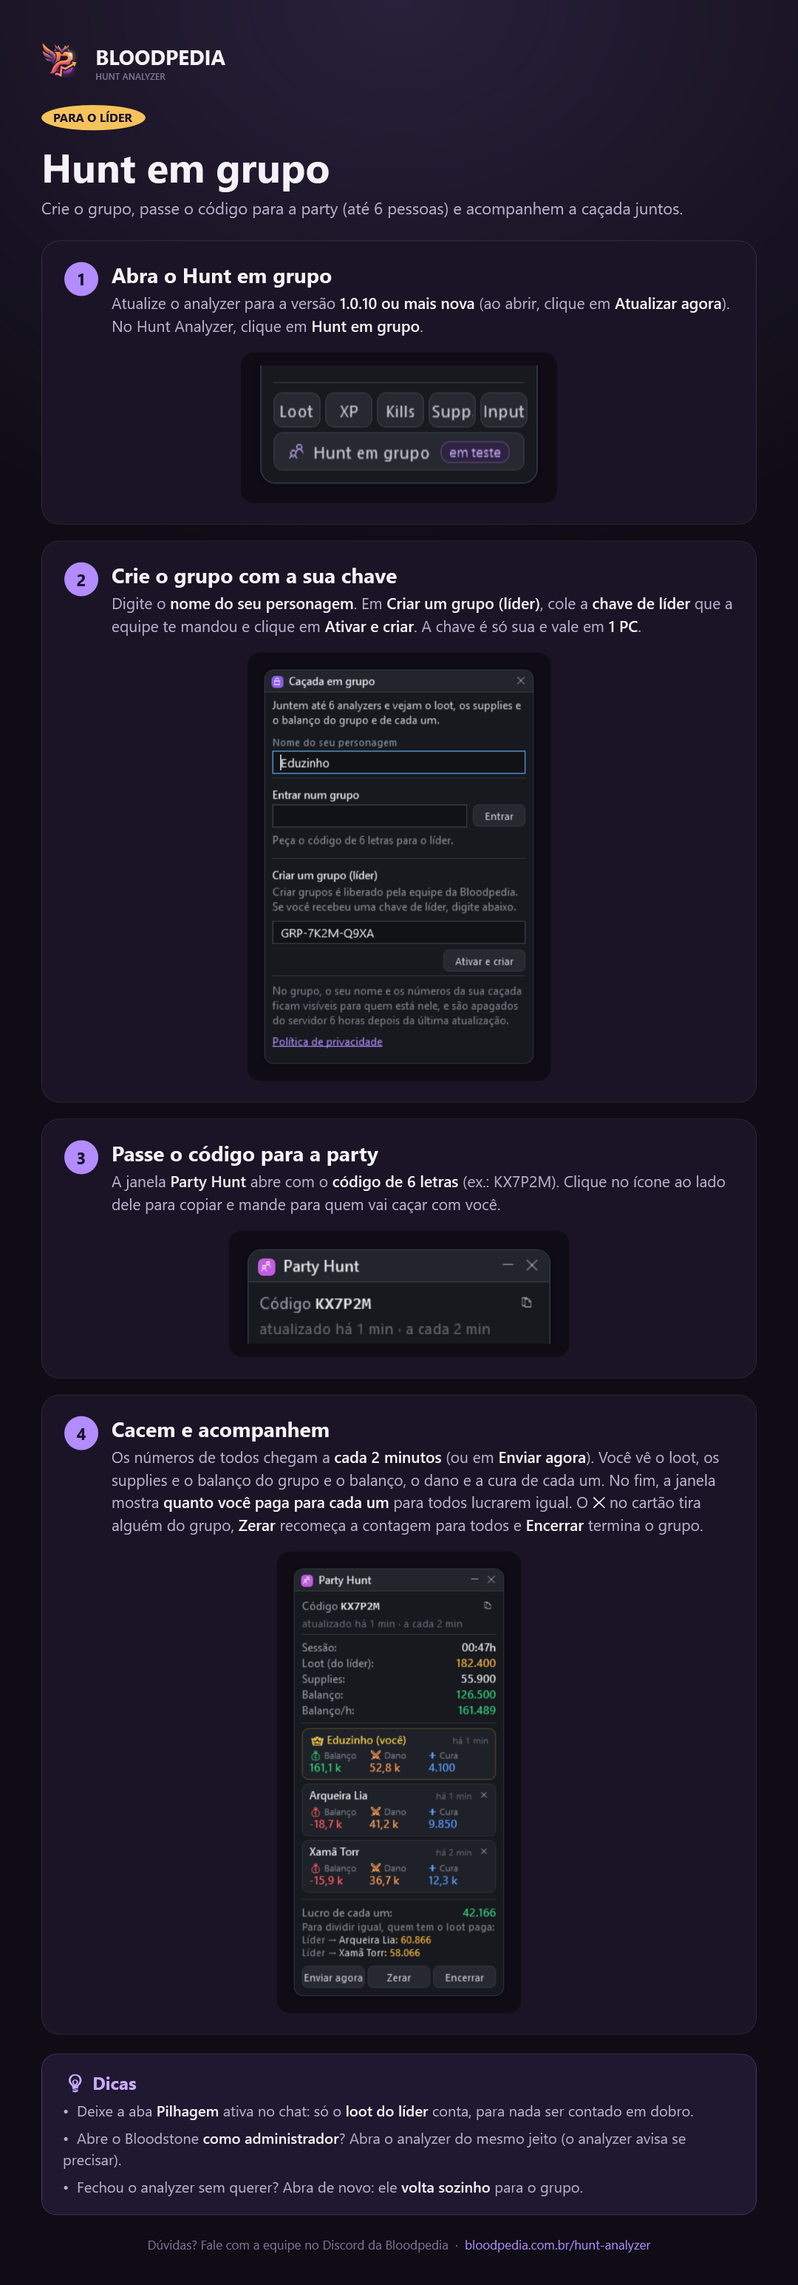
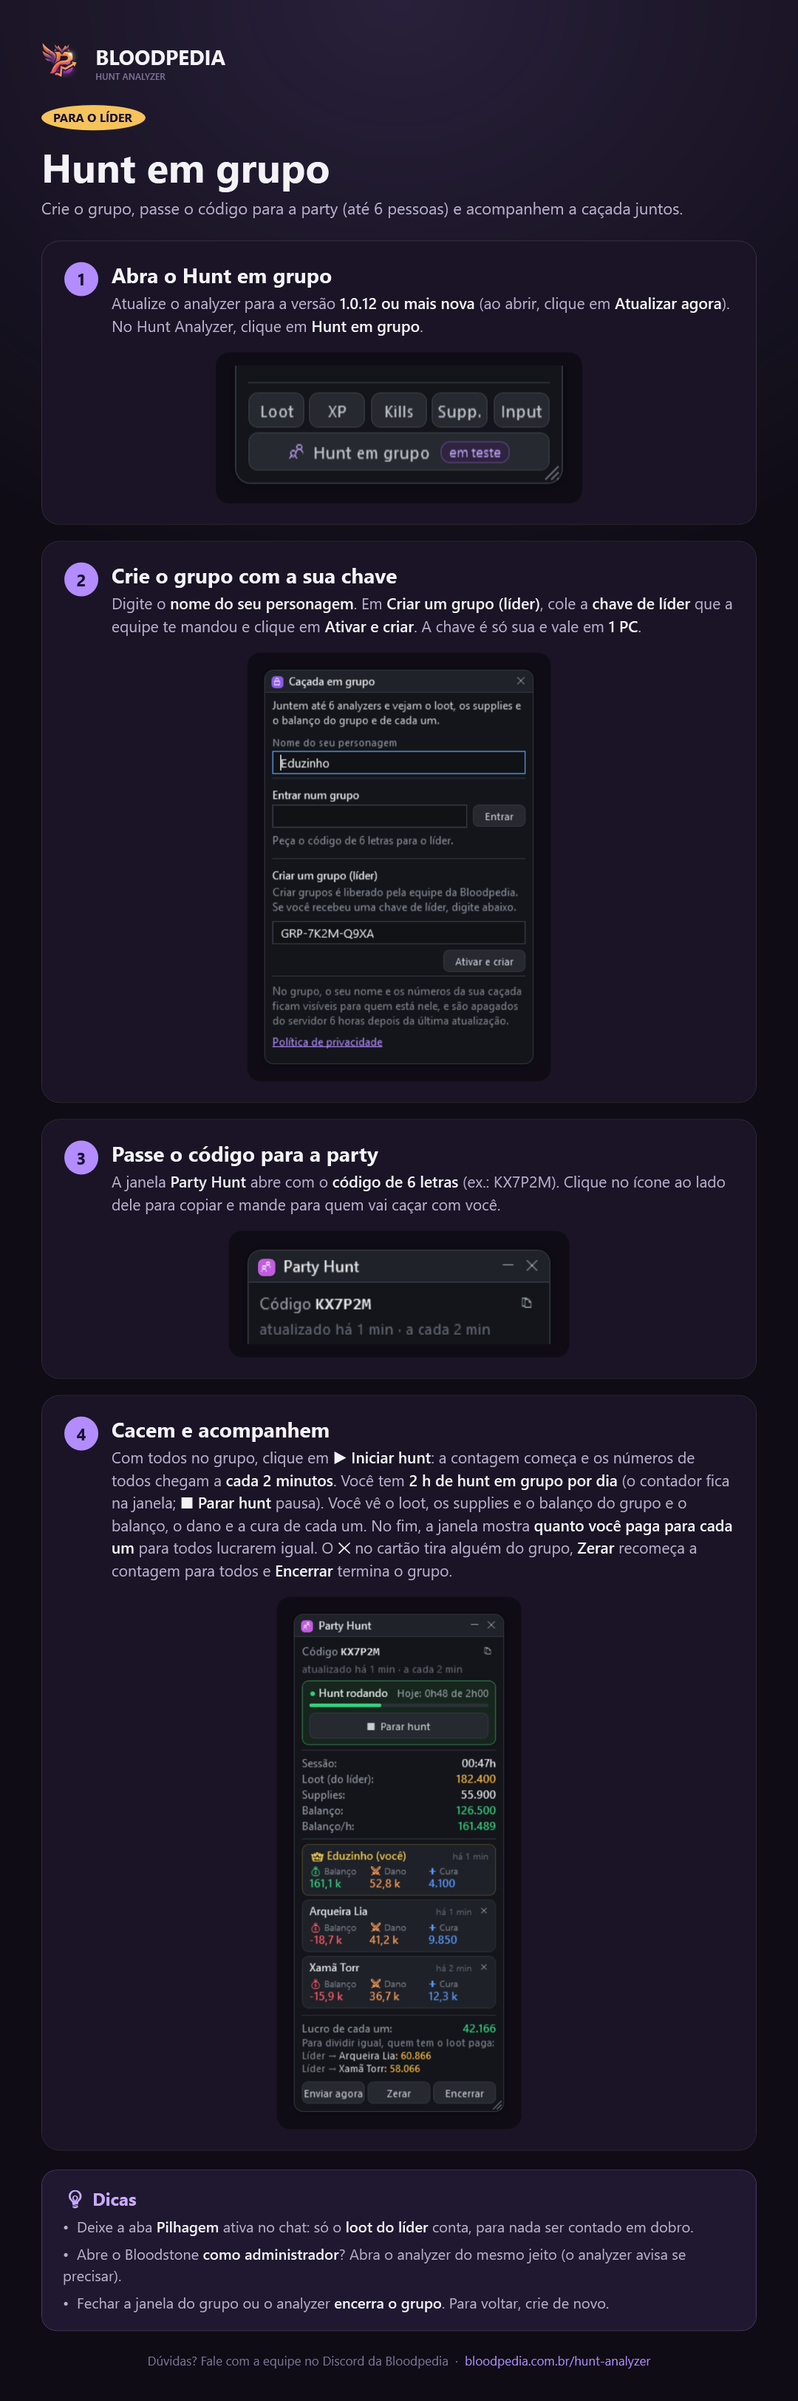
Hunt em grupo: Iniciar/Parar hunt (líder), contador do limite diário, fechar a janela ou o analyzer sai do grupo; versão 1.0.12

diff --git a/ferramentas/gerar-idiomas.js b/ferramentas/gerar-idiomas.js
@@ -145,6 +145,16 @@ const T = [
   ['Sair', 'Leave', 'Salir'],
   ['Sair do grupo', 'Leave the party', 'Salir del grupo'],
   ['agora', 'now', 'ahora'],
+  ['Hunt rodando', 'Hunt running', 'Caza en curso'],
+  ['Hunt parada', 'Hunt stopped', 'Caza detenida'],
+  ['Hoje: {0} de {1}', 'Today: {0} of {1}', 'Hoy: {0} de {1}'],
+  ['Tempo de hunt em grupo usado hoje, do limite diário do líder', "Party hunt time used today, out of the leader's daily limit", 'Tiempo de caza en grupo usado hoy, del límite diario del líder'],
+  ['O tempo de hunt em grupo de hoje acabou. Volta amanhã!', "Today's party hunt time is over. Come back tomorrow!", 'Se acabó el tiempo de caza en grupo de hoy. ¡Vuelve mañana!'],
+  ['■  Parar hunt', '■  Stop hunt', '■  Detener caza'],
+  ['▶  Iniciar hunt', '▶  Start hunt', '▶  Iniciar caza'],
+  ['Pausa a hunt: o grupo para de enviar números e o tempo do dia para de contar', "Pauses the hunt: the party stops sending numbers and today's time stops counting", 'Pausa la caza: el grupo deja de enviar números y el tiempo del día deja de contar'],
+  ['Começa a hunt: zera a contagem do grupo e todos passam a enviar os números a cada 2 minutos', 'Starts the hunt: resets the party count and everyone sends their numbers every 2 minutes', 'Empieza la caza: reinicia el conteo del grupo y todos envían sus números cada 2 minutos'],
+  ['Esperando o líder iniciar a hunt…', 'Waiting for the leader to start the hunt…', 'Esperando que el líder inicie la caza…'],
   ['enviando…', 'sending…', 'enviando…'],
   ['atualizado há {0} min', 'updated {0} min ago', 'actualizado hace {0} min'],
   [' · a cada 2 min', ' · every 2 min', ' · cada 2 min'],

diff --git a/app/src/Grupo.cs b/app/src/Grupo.cs
@@ -118,15 +118,54 @@ namespace BloodstoneHunt
             t.Tick += (s, e) => { t.Stop(); EnviarGrupo(false); }; t.Start();
         }
 
-        // chamado ao abrir: se estava num grupo, volta a ele
+        // chamado ao abrir. Fechar o analyzer (ou a janela do grupo) sai do grupo; se ficou um grupo salvo (o analyzer
+        // fechou sem conseguir avisar), sai dele agora: para voltar, é preciso entrar de novo.
         void IniciarGrupo()
         {
-            grupoAtual = GrupoServidor.Atual;
-            grupoEpoca = -1; grupoBase = null;   // o primeiro envio só pergunta a época; depois continua de onde parou
+            grupoAtual = null; grupoEpoca = -1; grupoBase = null;
+            var antigo = GrupoServidor.Atual;
+            if (antigo != null)
+            {
+                GrupoServidor.Atual = null; Log("grupo: saiu do grupo anterior (" + antigo[0] + ")");
+                new Thread(() => { int st; GrupoServidor.Post("grupo", new Dictionary<string, object> { { "acao", "sair" }, { "codigo", antigo[0] }, { "membro", antigo[1] }, { "segredo", antigo[2] } }, out st); }) { IsBackground = true }.Start();
+            }
             grupoTimer = new DispatcherTimer { Interval = TimeSpan.FromSeconds(IntervaloGrupo) };
             grupoTimer.Tick += (s, e) => EnviarGrupo(false);
-            var t2 = new DispatcherTimer { Interval = TimeSpan.FromSeconds(20) }; t2.Tick += (s, e) => { if (EmGrupo) DesenharGrupo(); }; t2.Start();   // "há X min"
-            if (EmGrupo) { grupoTimer.Start(); EnviarGrupo(false); }
+            var t2 = new DispatcherTimer { Interval = TimeSpan.FromSeconds(20) }; t2.Tick += (s, e) => { if (EmGrupo) DesenharGrupo(); }; t2.Start();   // "há X min" e o tempo do dia
+        }
+        bool HuntRodando { get { return grupoEstado != null && GrupoServidor.Sim(grupoEstado, "ativo"); } }
+        bool SouLiderGrupo { get { return EmGrupo && grupoEstado != null && GrupoServidor.Txt(grupoEstado, "lider") == grupoAtual[1]; } }
+
+        /** ao fechar o analyzer: sai do grupo (o líder encerra para todos) */
+        void SairDoGrupoAoFechar()
+        {
+            if (!EmGrupo) return;
+            var g = grupoAtual; grupoAtual = null; GrupoServidor.Atual = null;
+            int st; GrupoServidor.Post("grupo", new Dictionary<string, object> { { "acao", "sair" }, { "codigo", g[0] }, { "membro", g[1] }, { "segredo", g[2] } }, out st, 3000);
+        }
+        /** botão Sair/Encerrar ou fechar a janela do grupo: pergunta e sai */
+        void SairDoGrupo()
+        {
+            if (!EmGrupo) return;
+            var texto = SouLiderGrupo ? "Encerrar o grupo para todos?\n\nA hunt em grupo para e o tempo do dia deixa de contar." : "Sair do grupo?\n\nO analyzer para de enviar os seus números.";
+            if (MessageBox.Show(janelaGrupo.W, Acess.T(texto), Info.Nome, MessageBoxButton.YesNo, MessageBoxImage.Question) != MessageBoxResult.Yes) return;
+            var g = grupoAtual; SairDoGrupoLocal(null);
+            new Thread(() => { int st; GrupoServidor.Post("grupo", new Dictionary<string, object> { { "acao", "sair" }, { "codigo", g[0] }, { "membro", g[1] }, { "segredo", g[2] } }, out st); }) { IsBackground = true }.Start();
+        }
+        /** líder: iniciar ou parar a hunt (o tempo do dia só conta com a hunt rodando) */
+        void IniciarOuPararHunt(bool iniciar)
+        {
+            if (!EmGrupo) return;
+            var g = grupoAtual;
+            new Thread(() =>
+            {
+                int st; var r = GrupoServidor.Post("grupo", new Dictionary<string, object> { { "acao", iniciar ? "iniciar" : "parar" }, { "codigo", g[0] }, { "membro", g[1] }, { "segredo", g[2] } }, out st);
+                janelas["hunt"].W.Dispatcher.BeginInvoke(new Action(() =>
+                {
+                    if (st == 403 && GrupoServidor.Obj(r, "estado") != null) { grupoEstado = GrupoServidor.Obj(r, "estado"); grupoErro = GrupoServidor.Txt(r, "erro"); DesenharGrupo(); return; }
+                    Log("grupo: hunt " + (iniciar ? "iniciada" : "parada")); RespostaGrupo(st, r);
+                }));
+            }) { IsBackground = true }.Start();
         }
 
         /** só o que o painel do grupo usa: loot (o servidor só aproveita o do líder), supplies em gp, dano e cura */
@@ -144,7 +183,8 @@ namespace BloodstoneHunt
         {
             if (!EmGrupo || grupoEnviando) return;
             grupoEnviando = true;
-            var g = grupoAtual; var corpo = new Dictionary<string, object> { { "acao", "enviar" }, { "codigo", g[0] }, { "membro", g[1] }, { "segredo", g[2] }, { "epoca", grupoEpoca }, { "dados", DadosGrupo() } };
+            var g = grupoAtual; var corpo = new Dictionary<string, object> { { "acao", HuntRodando ? "enviar" : "ver" }, { "codigo", g[0] }, { "membro", g[1] }, { "segredo", g[2] }, { "epoca", grupoEpoca } };
+            if (HuntRodando) corpo["dados"] = DadosGrupo();   // com a hunt parada, só pergunta como está o grupo
             Action rodar = () =>
             {
                 int st; var r = GrupoServidor.Post("grupo", corpo, out st, final ? 3000 : 10000);
@@ -294,7 +334,7 @@ namespace BloodstoneHunt
                     var corpoP = (FrameworkElement)w.Template.FindName("PART_Corpo", w);
                     Ajustavel(w, "grupo", 236);
                     ((Button)w.Template.FindName("PART_Recolher", w)).Click += (s2, e2) => corpoP.Visibility = corpoP.Visibility == Visibility.Visible ? Visibility.Collapsed : Visibility.Visible;
-                    ((Button)w.Template.FindName("PART_Fechar", w)).Click += (s2, e2) => { w.Hide(); P.Abertas.Remove("grupo"); P.Salvar(); };
+                    ((Button)w.Template.FindName("PART_Fechar", w)).Click += (s2, e2) => SairDoGrupo();   // fechar a janela sai do grupo (líder: encerra)
                 };
                 janelas["grupo"] = janelaGrupo;
             }
@@ -327,6 +367,7 @@ namespace BloodstoneHunt
             cab.Children.Add(copiar); c.Children.Add(cab);
             var atual = grupoUltimoEnvio == DateTime.MinValue ? Acess.T("enviando…") : string.Format(Acess.T("atualizado há {0} min"), Math.Max(0, (int)(DateTime.Now - grupoUltimoEnvio).TotalMinutes));
             c.Children.Add(Linha(grupoErro ?? (atual + Acess.T(" · a cada 2 min")), grupoErro != null ? "#FF8A8A" : "#626772", 10.5));
+            if (grupoEstado != null) BlocoHunt(c);
             if ((L == null || L.M == null) && !EmTutorial)
             {
                 // sem ler o jogo, os números desta pessoa vão zerados para o grupo
@@ -431,6 +472,40 @@ namespace BloodstoneHunt
             }) { IsBackground = true }.Start();
         }
 
+        /** hunt rodando/parada, tempo de hoje (limite diário do líder) e o botão Iniciar/Parar do líder */
+        void BlocoHunt(StackPanel c)
+        {
+            var g = grupoEstado; bool rodando = HuntRodando, lider = SouLiderGrupo;
+            double usado = GrupoServidor.Num(g, "usadoSeg"), limite = Math.Max(60, GrupoServidor.Num(g, "limiteSeg"));
+            if (rodando) usado += Math.Max(0, (DateTime.Now - grupoUltimoEnvio).TotalSeconds);   // continua contando entre as atualizações
+            usado = Math.Min(usado, limite);
+            bool acabou = usado >= limite - 1;
+            Func<double, string> hm = x => string.Format("{0}h{1:00}", (int)(x / 3600), (int)(x % 3600 / 60));
+            var caixa = new Border { CornerRadius = new CornerRadius(7), Background = Cor(rodando ? "#16261D" : "#1E2128"), BorderBrush = Cor(rodando ? "#2F6B47" : "#2A2E35"), BorderThickness = new Thickness(1), Padding = new Thickness(7, 5, 7, 6), Margin = new Thickness(0, 6, 0, 0) };
+            var st = new StackPanel(); caixa.Child = st;
+            var topo = new Grid();
+            var situacao = new TextBlock { FontSize = 11.5, FontWeight = FontWeights.SemiBold };
+            situacao.Inlines.Add(new System.Windows.Documents.Run(rodando ? "\u25CF " : "\u25A0 ") { Foreground = Cor(rodando ? "#35D07F" : "#7D828C") });
+            situacao.Inlines.Add(new System.Windows.Documents.Run(Acess.T(rodando ? "Hunt rodando" : "Hunt parada")) { Foreground = Cor("#E9EBEE") });
+            topo.Children.Add(situacao);
+            var hoje = Linha(string.Format(Acess.T("Hoje: {0} de {1}"), hm(usado), hm(limite)), acabou ? "#FF8A8A" : "#9AA0AA", 10.5);
+            hoje.HorizontalAlignment = HorizontalAlignment.Right; hoje.VerticalAlignment = VerticalAlignment.Center; hoje.ToolTip = Acess.T("Tempo de hunt em grupo usado hoje, do limite diário do líder");
+            topo.Children.Add(hoje); st.Children.Add(topo);
+            st.Children.Add(new ProgressBar { Style = (Style)Application.Current.Resources["BarraFina"], Maximum = limite, Value = usado, Foreground = Cor(acabou ? "#FF5A64" : rodando ? "#35D07F" : "#5B9BFF"), Margin = new Thickness(0, 4, 0, 0) });
+            if (!rodando && GrupoServidor.Txt(g, "parou") == "limite") st.Children.Add(Paragrafo("O tempo de hunt em grupo de hoje acabou. Volta amanhã!", "#FF8A8A"));
+            if (lider)
+            {
+                var b = new Button { Style = (Style)Application.Current.Resources["BotaoAtalho"], Height = 28, Margin = new Thickness(0, 6, 0, 0), IsEnabled = rodando || !acabou };
+                b.Content = Acess.T(rodando ? "\u25A0  Parar hunt" : "\u25B6  Iniciar hunt");
+                if (!rodando) { b.Background = Cor("#1F3A2A"); b.BorderBrush = Cor("#35D07F"); b.Foreground = Brushes.White; }
+                b.ToolTip = Acess.T(rodando ? "Pausa a hunt: o grupo para de enviar números e o tempo do dia para de contar" : "Começa a hunt: zera a contagem do grupo e todos passam a enviar os números a cada 2 minutos");
+                b.Click += (s, e) => { b.IsEnabled = false; IniciarOuPararHunt(!rodando); };
+                st.Children.Add(b);
+            }
+            else if (!rodando) { var p = Paragrafo("Esperando o líder iniciar a hunt…", "#8B909A"); p.Margin = new Thickness(0, 4, 0, 0); st.Children.Add(p); }
+            c.Children.Add(caixa);
+        }
+
         void Rodape(StackPanel c, bool souLider)
         {
             var lin = new UniformGrid2(); lin.Margin = new Thickness(0, 8, -3, -3);
@@ -445,14 +520,9 @@ namespace BloodstoneHunt
             }
             else enviar.ToolTip = "Enviar os seus números agora (1 vez a cada 15 minutos)";
             enviar.Click += (s, e) => { enviar.IsEnabled = false; grupoUltimoManual = DateTime.Now; EnviarGrupo(false); };
-            sair.Click += (s, e) =>
-            {
-                if (MessageBox.Show(janelaGrupo.W, souLider ? "Encerrar o grupo para todos?" : "Sair do grupo?", Info.Nome, MessageBoxButton.YesNo, MessageBoxImage.Question) != MessageBoxResult.Yes) return;
-                var g = grupoAtual; SairDoGrupoLocal(null);
-                new Thread(() => { int st; GrupoServidor.Post("grupo", new Dictionary<string, object> { { "acao", "sair" }, { "codigo", g[0] }, { "membro", g[1] }, { "segredo", g[2] } }, out st); }) { IsBackground = true }.Start();
-            };
-            lin.Children.Add(enviar);
-            if (souLider)
+            sair.Click += (s, e) => SairDoGrupo();
+            if (HuntRodando) lin.Children.Add(enviar);   // com a hunt parada não há o que enviar
+            if (souLider && HuntRodando)
             {
                 // zerar a sessão do grupo: só o líder (o servidor também confere)
                 var zerar = new Button { Content = "Zerar", Style = (Style)Application.Current.Resources["BotaoAtalho"], Padding = new Thickness(1, 0, 1, 0), ToolTip = "Zerar a sessão do grupo para todos (só o líder)" };
@@ -505,7 +575,7 @@ namespace BloodstoneHunt
             foreach (var d in Definicoes) Criar(d);
             janelas["hunt"].W.Left = -10000; janelas["hunt"].W.Show();
             long agora = 1800000000000, criado = agora - 47 * 60000;
-            var json = "{\"codigo\":\"KX7P2M\",\"criado\":" + criado + ",\"agora\":" + agora + ",\"lider\":\"aaaaaaaa\",\"epoca\":0,\"membros\":[" +
+            var json = "{\"codigo\":\"KX7P2M\",\"criado\":" + criado + ",\"agora\":" + agora + ",\"lider\":\"aaaaaaaa\",\"epoca\":0,\"ativo\":" + (Environment.GetEnvironmentVariable("ANALYZER_PARADO") == null ? "true" : "false") + ",\"usadoSeg\":2820,\"limiteSeg\":7200,\"membros\":[" +
                 "{\"id\":\"aaaaaaaa\",\"nome\":\"Eduzinho\",\"lider\":true,\"atualizado\":" + (agora - 1 * 60000) + ",\"dados\":{\"loot\":182400,\"supplies\":21300,\"dano\":52800,\"cura\":4100}}" + "," +
                 "{\"id\":\"bbbbbbbb\",\"nome\":\"Arqueira Lia\",\"lider\":false,\"atualizado\":" + (agora - 1 * 60000) + ",\"dados\":{\"loot\":0,\"supplies\":18700,\"dano\":41200,\"cura\":9850}}" + "," +
                 "{\"id\":\"cccccccc\",\"nome\":\"Xamã Torr\",\"lider\":false,\"atualizado\":" + (agora - 2 * 60000) + ",\"dados\":{\"loot\":0,\"supplies\":15900,\"dano\":36700,\"cura\":12300}}" + "]}";

diff --git a/app/src/Tutorial.cs b/app/src/Tutorial.cs
@@ -53,7 +53,7 @@ namespace BloodstoneHunt
         void GrupoExemplo(bool souLider)
         {
             long agora = 1800000000000, criado = agora - 47 * 60000;
-            var json = "{\"codigo\":\"KX7P2M\",\"criado\":" + criado + ",\"agora\":" + agora + ",\"lider\":\"aaaaaaaa\",\"epoca\":0,\"membros\":[" +
+            var json = "{\"codigo\":\"KX7P2M\",\"criado\":" + criado + ",\"agora\":" + agora + ",\"lider\":\"aaaaaaaa\",\"epoca\":0,\"ativo\":true,\"usadoSeg\":2820,\"limiteSeg\":7200,\"membros\":[" +
                 "{\"id\":\"aaaaaaaa\",\"nome\":\"Eduzinho\",\"lider\":true,\"atualizado\":" + (agora - 60000) + ",\"dados\":{\"loot\":182400,\"supplies\":21300,\"dano\":52800,\"cura\":4100}}," +
                 "{\"id\":\"bbbbbbbb\",\"nome\":\"Arqueira Lia\",\"lider\":false,\"atualizado\":" + (agora - 60000) + ",\"dados\":{\"loot\":0,\"supplies\":18700,\"dano\":41200,\"cura\":9850}}," +
                 "{\"id\":\"cccccccc\",\"nome\":\"Xamã Torr\",\"lider\":false,\"atualizado\":" + (agora - 120000) + ",\"dados\":{\"loot\":0,\"supplies\":15900,\"dano\":36700,\"cura\":12300}}]}";
@@ -170,25 +170,25 @@ namespace BloodstoneHunt
             GrupoExemplo(false); DesenharGrupo(); var partyMembro = Print2x(janelaGrupo.W);
 
             var lider = MontarTutorial("PARA O LÍDER", "Hunt em grupo", "Crie o grupo, passe o código para a party (até 6 pessoas) e acompanhem a caçada juntos.", "#F5C35B", new List<PassoTut> {
-                new PassoTut { Titulo = "Abra o Hunt em grupo", Texto = "Atualize o analyzer para a versão **1.0.10 ou mais nova** (ao abrir, clique em **Atualizar agora**). No Hunt Analyzer, clique em **Hunt em grupo**.", Imagem = botao, Escala = 2.0 },
+                new PassoTut { Titulo = "Abra o Hunt em grupo", Texto = "Atualize o analyzer para a versão **1.0.12 ou mais nova** (ao abrir, clique em **Atualizar agora**). No Hunt Analyzer, clique em **Hunt em grupo**.", Imagem = botao, Escala = 2.0 },
                 new PassoTut { Titulo = "Crie o grupo com a sua chave", Texto = "Digite o **nome do seu personagem**. Em **Criar um grupo (líder)**, cole a **chave de líder** que a equipe te mandou e clique em **Ativar e criar**. A chave é só sua e vale em **1 PC**.", Imagem = dlgLider, Escala = 1.25 },
                 new PassoTut { Titulo = "Passe o código para a party", Texto = "A janela **Party Hunt** abre com o **código de 6 letras** (ex.: KX7P2M). Clique no ícone ao lado dele para copiar e mande para quem vai caçar com você.", Imagem = codigo, Escala = 1.8 },
-                new PassoTut { Titulo = "Cacem e acompanhem", Texto = "Os números de todos chegam a **cada 2 minutos** (ou em **Enviar agora**). Você vê o loot, os supplies e o balanço do grupo e o balanço, o dano e a cura de cada um. No fim, a janela mostra **quanto você paga para cada um** para todos lucrarem igual. O **✕** no cartão tira alguém do grupo, **Zerar** recomeça a contagem para todos e **Encerrar** termina o grupo.", Imagem = partyLider, Escala = 1.25 },
+                new PassoTut { Titulo = "Cacem e acompanhem", Texto = "Com todos no grupo, clique em **▶ Iniciar hunt**: a contagem começa e os números de todos chegam a **cada 2 minutos**. Você tem **2 h de hunt em grupo por dia** (o contador fica na janela; **■ Parar hunt** pausa). Você vê o loot, os supplies e o balanço do grupo e o balanço, o dano e a cura de cada um. No fim, a janela mostra **quanto você paga para cada um** para todos lucrarem igual. O **✕** no cartão tira alguém do grupo, **Zerar** recomeça a contagem para todos e **Encerrar** termina o grupo.", Imagem = partyLider, Escala = 1.25 },
             }, new[] {
                 "Deixe a aba **Pilhagem** ativa no chat: só o **loot do líder** conta, para nada ser contado em dobro.",
                 "Abre o Bloodstone **como administrador**? Abra o analyzer do mesmo jeito (o analyzer avisa se precisar).",
-                "Fechou o analyzer sem querer? Abra de novo: ele **volta sozinho** para o grupo.",
+                "Fechar a janela do grupo ou o analyzer **encerra o grupo**. Para voltar, crie de novo.",
             });
             SalvarTutorial(lider, Path.Combine(pasta, "tutorial-lider.png"));
 
             var membro = MontarTutorial("PARA QUEM VAI PARTICIPAR", "Hunt em grupo", "Entre no grupo do líder com o código e acompanhe a caçada da party. Não precisa de chave.", "#B38CFF", new List<PassoTut> {
-                new PassoTut { Titulo = "Abra o Hunt em grupo", Texto = "Atualize o analyzer para a versão **1.0.10 ou mais nova** (ao abrir, clique em **Atualizar agora**). No Hunt Analyzer, clique em **Hunt em grupo**.", Imagem = botao, Escala = 2.0 },
+                new PassoTut { Titulo = "Abra o Hunt em grupo", Texto = "Atualize o analyzer para a versão **1.0.12 ou mais nova** (ao abrir, clique em **Atualizar agora**). No Hunt Analyzer, clique em **Hunt em grupo**.", Imagem = botao, Escala = 2.0 },
                 new PassoTut { Titulo = "Entre com o código do líder", Texto = "Digite o **nome do seu personagem**. Em **Entrar num grupo**, digite o **código de 6 letras** que o líder passou e clique em **Entrar**.", Imagem = dlgMembro, Escala = 1.25 },
-                new PassoTut { Titulo = "Cace normalmente", Texto = "Seus números (supplies, dano e cura) vão para o grupo **a cada 2 minutos**, ou na hora em **Enviar agora**. O seu cartão aparece com **(você)**. No fim, a janela mostra **quanto o líder te paga** para todos lucrarem igual. Para sair, clique em **Sair**.", Imagem = partyMembro, Escala = 1.25 },
+                new PassoTut { Titulo = "Cace normalmente", Texto = "A hunt começa quando o líder clicar em **Iniciar hunt**. Daí, seus números (supplies, dano e cura) vão para o grupo **a cada 2 minutos**. O seu cartão aparece com **(você)**. No fim, a janela mostra **quanto o líder te paga** para todos lucrarem igual. Para sair, clique em **Sair**.", Imagem = partyMembro, Escala = 1.25 },
             }, new[] {
                 "O **loot é contado pelo líder**: por isso o seu balanço aparece negativo até a divisão no fim.",
                 "Abre o Bloodstone **como administrador**? Abra o analyzer do mesmo jeito (o analyzer avisa se precisar).",
-                "No grupo vão só o seu **nome** e os números da caçada, apagados 6 h depois. Nada da sua conta ou do seu PC.",
+                "Fechar a janela do grupo ou o analyzer **tira você do grupo**. Para voltar, entre de novo com o código.",
             });
             SalvarTutorial(membro, Path.Combine(pasta, "tutorial-participante.png"));
         }

diff --git a/app/src/Analyzer.cs b/app/src/Analyzer.cs
@@ -815,7 +815,7 @@ namespace BloodstoneHunt
             foreach (var d in Definicoes) Criar(d);
             var hunt = janelas["hunt"];
             Ligar(hunt);
-            hunt.W.Closed += (s, e) => { rodando = false; try { EnviarGrupo(true); } catch { } SalvarPosicoes(); P.Salvar(); app.Shutdown(); };
+            hunt.W.Closed += (s, e) => { rodando = false; try { SairDoGrupoAoFechar(); } catch { } SalvarPosicoes(); P.Salvar(); app.Shutdown(); };
             hunt.W.Show();
             trava = new Trava(hunt.W, (Button)hunt.Corpo.FindName("BtnTravar"), () => janelas.Values.Select(x => x.W));
             trava.Mudou += () => { var b = (Button)hunt.Corpo.FindName("BtnTravar"); b.Content = trava.Ligada ? "" : ""; b.Opacity = trava.Ligada ? 1 : 0.45; };

diff --git a/app/src/Extras.cs b/app/src/Extras.cs
@@ -23,7 +23,7 @@ namespace BloodstoneHunt
     static class Info
     {
         public const string Nome = "Analyzer Bloodpedia";
-        public const string Versao = "1.0.11";
+        public const string Versao = "1.0.12";
         // repositório público onde ficam as versões (GitHub Releases)
         public const string Repositorio = "dusteron2025-ui/analyzer-bloodpedia";
     }
